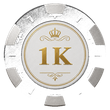
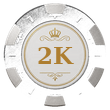
Checkpoint current assets before source recovery
Preserve the corrected chip artwork and cache-busted Lottery asset paths before reconstructing missing source files.

Changed region(s): [[0.3273, 0.4091, 0.6818, 0.6]]

diff --git a/src/games/engines/wingoLottery.ts b/src/games/engines/wingoLottery.ts
@@ -68,13 +68,13 @@ export function chipTag(d: ChipDenom): string {
 
 export function chipSrc(d: ChipDenom, variant: 'large' | 'selector' | 'small' = 'large'): string {
   const tag = chipTag(d)
-  if (variant === 'selector') return `${CT}/chips/chip-${tag}-selector.png`
-  if (variant === 'small') return `${CT}/chips/chip-${tag}-small-a.png`
-  return `${CT}/chips/chip-${tag}-large.png`
+  if (variant === 'selector') return `${CT}/chips/chip-${tag}-selector.png?v=2`
+  if (variant === 'small') return `${CT}/chips/chip-${tag}-small-a.png?v=2`
+  return `${CT}/chips/chip-${tag}-large.png?v=2`
 }
 
 export function chipBoardSrc(d: ChipDenom, variant: 'a' | 'b' | 'c' | 'd' = 'a'): string {
-  return `${CT}/chips/chip-${chipTag(d)}-small-${variant}.png`
+  return `${CT}/chips/chip-${chipTag(d)}-small-${variant}.png?v=2`
 }
 
 export const CASINO_ASSETS = {

diff --git a/scripts/fix_wingo_chip_labels.py b/scripts/fix_wingo_chip_labels.py
@@ -1,0 +1,98 @@
+"""Regenerate WinGo Lottery 2K/5K/10K chips from the 1K masters."""
+
+from pathlib import Path
+
+from PIL import Image, ImageDraw, ImageFont
+
+
+ROOT = Path(__file__).resolve().parents[1]
+CHIPS = ROOT / "public/games/casino-table/chips"
+FONT = "/usr/share/fonts/truetype/dejavu/DejaVuSerif-Bold.ttf"
+
+
+def clean_label(image: Image.Image, box: tuple[int, int, int, int]) -> None:
+    """Paint over the old text using an interpolated sample of its background."""
+    px = image.load()
+    x0, y0, x1, y1 = box
+    for y in range(y0, y1):
+        left = px[x0 - 2, y]
+        right = px[x1 + 1, y]
+        width = max(1, x1 - x0 - 1)
+        for x in range(x0, x1):
+            t = (x - x0) / width
+            px[x, y] = tuple(round(left[i] * (1 - t) + right[i] * t) for i in range(4))
+
+
+def draw_centered(
+    image: Image.Image,
+    label: str,
+    center: tuple[float, float],
+    size: int,
+    fill: tuple[int, int, int, int],
+    stroke: int = 0,
+    stroke_fill: tuple[int, int, int, int] = (0, 0, 0, 255),
+) -> None:
+    draw = ImageDraw.Draw(image)
+    font = ImageFont.truetype(FONT, size)
+    draw.text(
+        center,
+        label,
+        font=font,
+        fill=fill,
+        anchor="mm",
+        stroke_width=stroke,
+        stroke_fill=stroke_fill,
+    )
+
+
+def make_standard(source: Path, target: Path, label: str, kind: str) -> None:
+    image = Image.open(source).convert("RGBA")
+    if kind == "selector":
+        clean_label(image, (34, 44, 77, 69))
+        draw_centered(image, label, (55, 56), 23 if len(label) == 2 else 19, (174, 126, 48, 255))
+    elif kind == "large":
+        clean_label(image, (31, 48, 97, 82))
+        draw_centered(image, label, (64, 64), 29 if len(label) == 2 else 24, (174, 126, 48, 255))
+    else:
+        clean_label(image, (13, 18, 35, 30))
+        draw_centered(image, label, (24, 24), 10 if len(label) == 2 else 8, (154, 106, 35, 255))
+    image.save(target, optimize=True)
+
+
+def make_large_2x(source: Path, target: Path, label: str) -> None:
+    image = Image.open(source).convert("RGBA")
+    draw = ImageDraw.Draw(image)
+    # This master has a dark center rather than the ivory center used elsewhere.
+    draw.ellipse((108, 108, 204, 210), fill=(7, 8, 10, 255))
+    draw_centered(
+        image,
+        label,
+        (156, 159),
+        66 if len(label) == 2 else 52,
+        (255, 219, 76, 255),
+        stroke=1,
+        stroke_fill=(91, 65, 4, 255),
+    )
+    image.save(target, optimize=True)
+
+
+def main() -> None:
+    for tag in ("2k", "5k", "10k"):
+        label = tag.upper()
+        for suffix in ("selector", "large", "small-a", "small-b", "small-c", "small-d"):
+            kind = "small" if suffix.startswith("small") else suffix
+            make_standard(
+                CHIPS / f"chip-1k-{suffix}.png",
+                CHIPS / f"chip-{tag}-{suffix}.png",
+                label,
+                kind,
+            )
+        make_large_2x(
+            CHIPS / "chip-1k-large@2x.png",
+            CHIPS / f"chip-{tag}-large@2x.png",
+            label,
+        )
+
+
+if __name__ == "__main__":
+    main()
